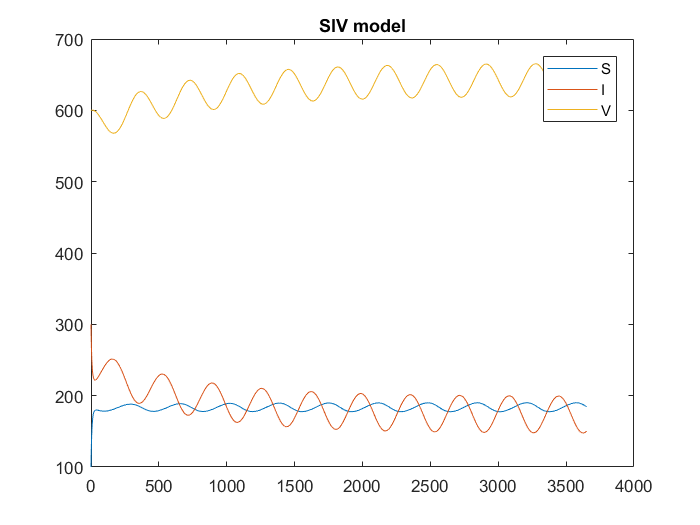
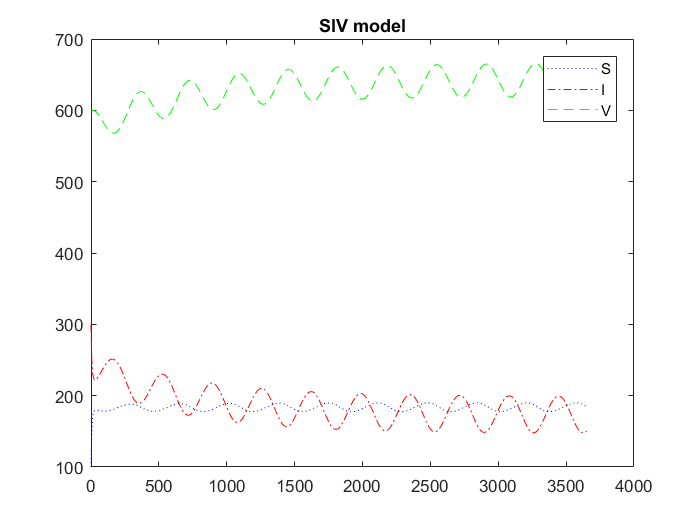
Fixed images for b/w printing

diff --git a/Manuscript/SIV_infectionDynamics_manuscript.tex b/Manuscript/SIV_infectionDynamics_manuscript.tex
@@ -168,7 +168,7 @@ Building off of the SIV and SIS models, we introduce several new parameters and 
 
 \textbf{Informal Notes: }Here is the behavior of the system with initial conditions $S = 100$, $I = 300$, $V = 600$, and parameters: $\alpha = 0.00055$, $\beta = 0.1$, $\gamma = 0.0009$, $\kappa = 0.0005$, $r_1 = -0.6$, $r_2 = 1$, $r_3 =  -0.4$. I came up with these parameters by messing around with different values until I found system behavior that somewhat made sense. The x-axis represents days and the y-axis represents number of individuals.
 \begin{center}
-\includegraphics[scale=0.5]{../Data/sivModel_example.png}
+\includegraphics[scale=0.6]{../Data/sivModel_example.png}
 \end{center}
 
 Some observations: \\

diff --git a/Scripts/exampleModel.m b/Scripts/exampleModel.m
@@ -4,12 +4,12 @@ clc;
 options = odeset('RelTol', 1e-4, 'NonNegative', [1 2 3]);
 figure
 [t, x] = ode45('siv', [0 3650], [100 300 600], options);
-plot(t, x);
+plot(t, x(:,1), 'b:', t, x(:,2), 'r-.', t, x(:,3), 'g--')
 legend('S', 'I', 'V')
 title('SIV model')
 
 figure
 [t, x] = ode45('sir', [0, 10], [999, 1, 0], options);
-plot(t, x);
+plot(t,x(:,1),'g',t,x(:,2),'b--o',t,x(:,3),'c*')
 legend('S', 'I', 'R')
 title('SIR model')
